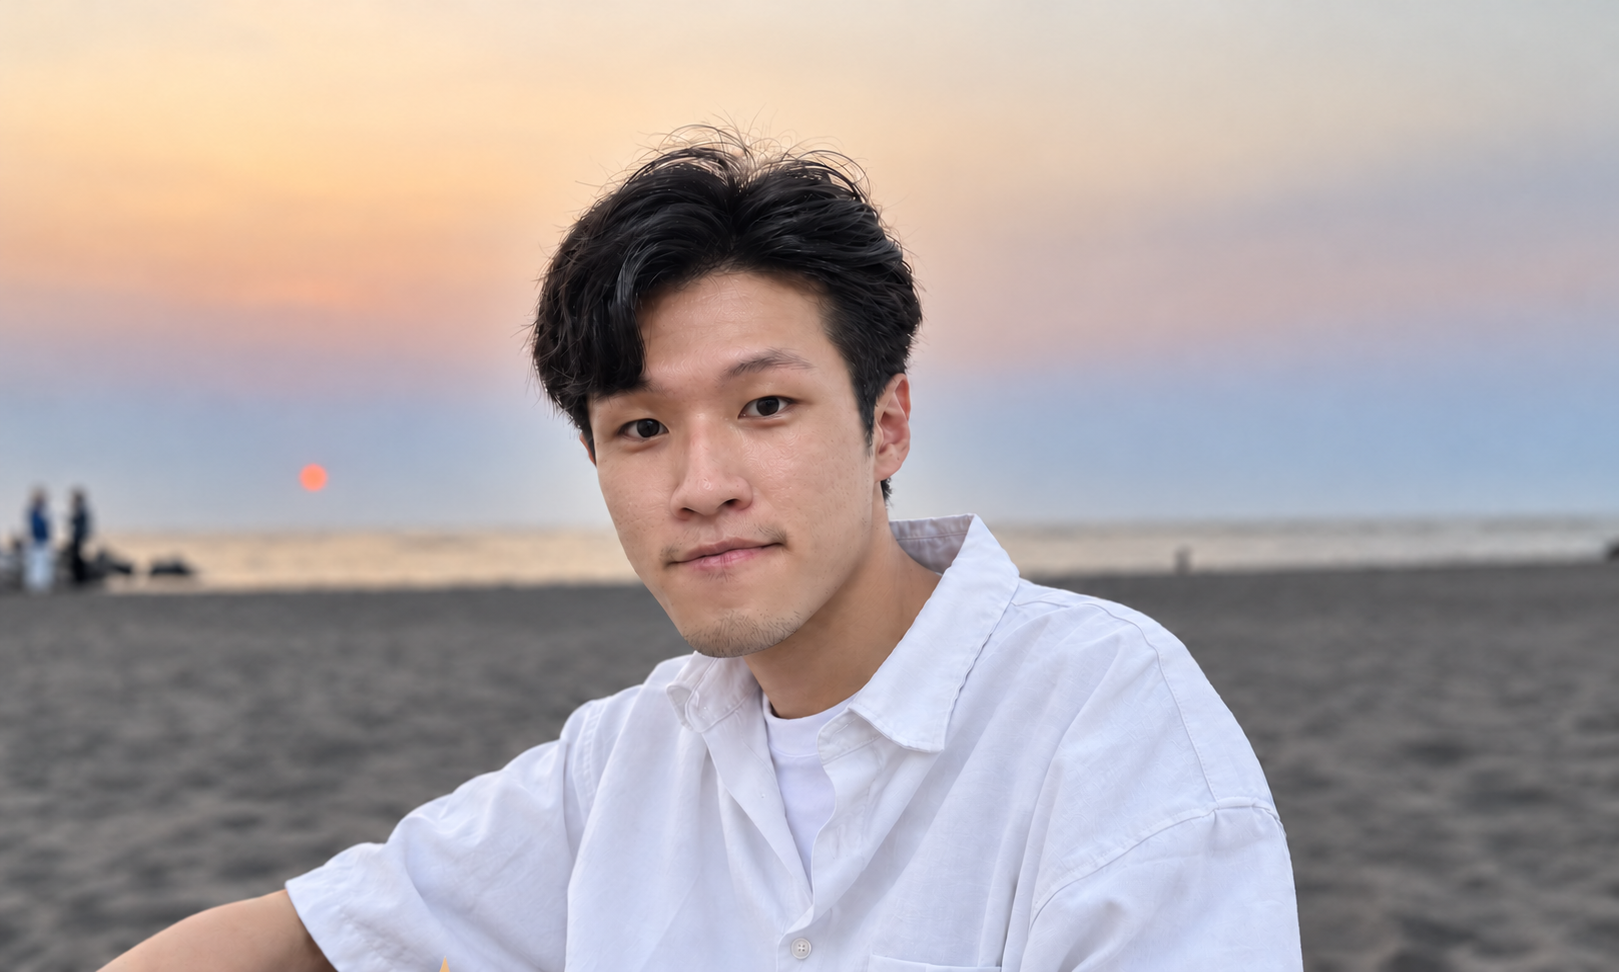
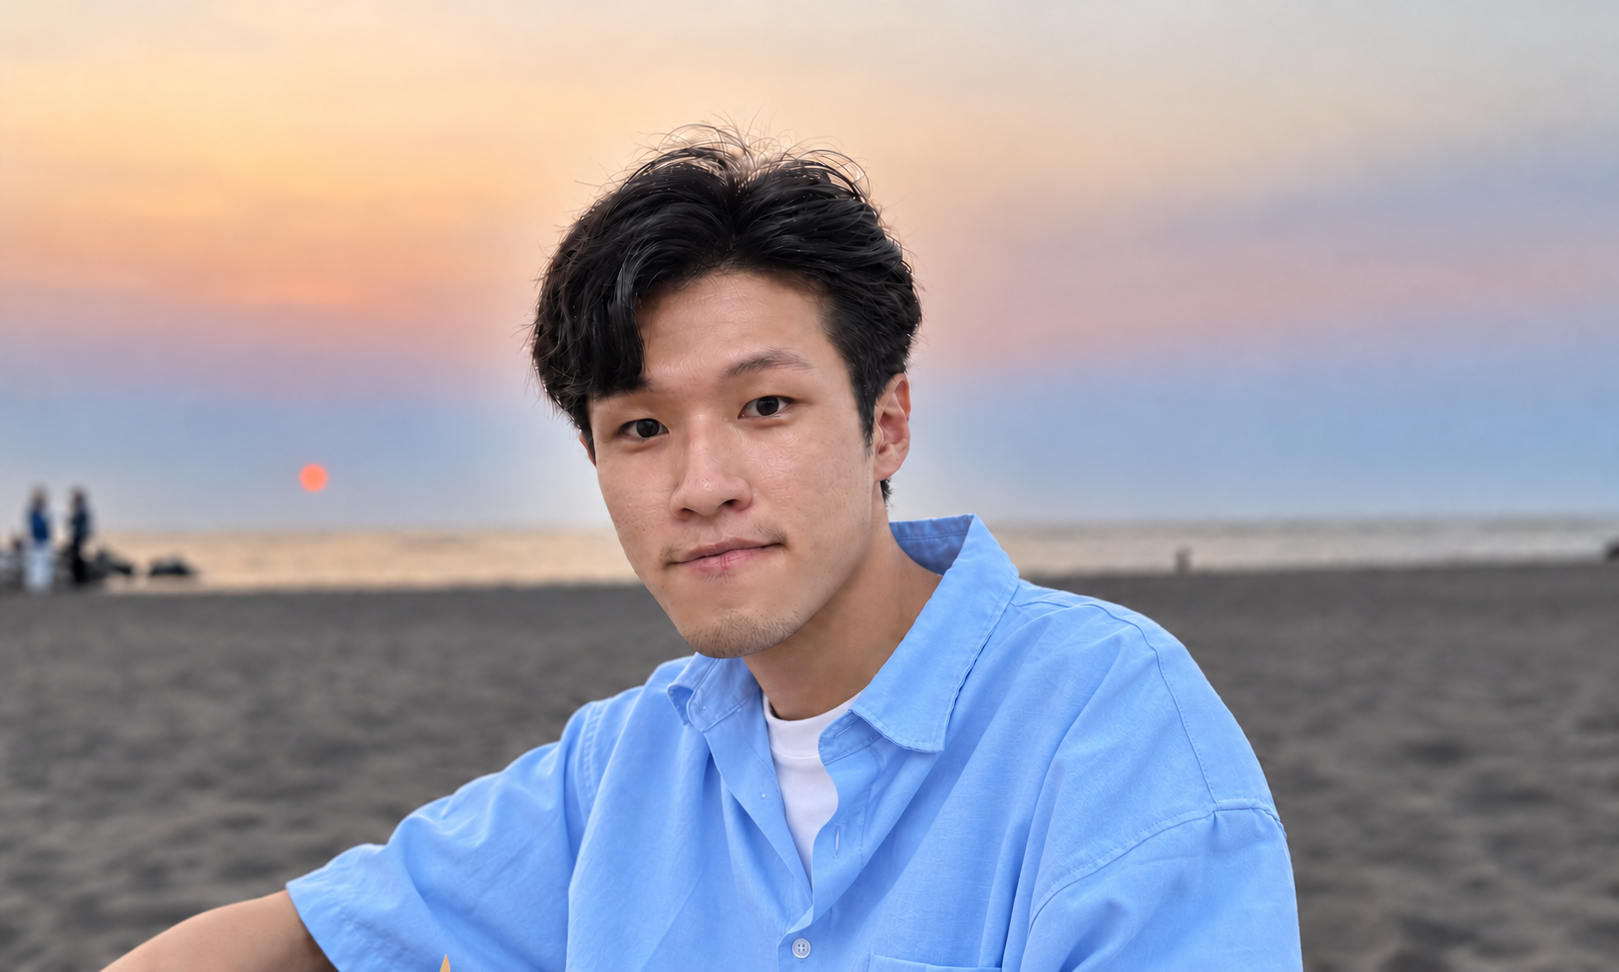
Update headshot with smaller circular framing

Changed region(s): [[0.1544, 0.5247, 0.803, 1.0], [0.3706, 0.1543, 0.525, 0.1852]]

diff --git a/styles.css b/styles.css
@@ -369,13 +369,12 @@ h2 em {
 .hero-visual {
   position: relative;
   justify-self: end;
-  width: min(100%, 380px);
+  width: min(100%, 260px);
   min-width: 0;
 }
 
 .photo-frame {
   position: relative;
-  aspect-ratio: 1;
   padding: 12px;
   background: var(--portrait-frame);
   border-radius: 50%;
@@ -388,10 +387,17 @@ h2 em {
   content: "";
   position: absolute;
   inset: 12px;
-  z-index: 1;
+  z-index: 2;
   border: 1px solid var(--portrait-line);
   border-radius: inherit;
   pointer-events: none;
+}
+
+.photo-window {
+  position: relative;
+  aspect-ratio: 1;
+  overflow: hidden;
+  border-radius: inherit;
 }
 
 .photo-frame img {
@@ -402,7 +408,9 @@ h2 em {
 }
 
 .photo-frame img.headshot {
-  object-position: 52% center;
+  /* A smaller circular frame keeps the subject close to the previous scale. */
+  display: block;
+  object-position: center;
 }
 
 .photo-note {
@@ -1463,7 +1471,7 @@ html:has(.project-dialog[open]) {
   }
 
   h1 { font-size: clamp(3rem, 9vw, 5rem); }
-  .hero-visual { justify-self: center; width: min(72vw, 360px); }
+  .hero-visual { justify-self: center; width: min(72vw, 260px); }
 
   .section-heading,
   .timeline-item {
@@ -1487,7 +1495,7 @@ html:has(.project-dialog[open]) {
   .section-index { font-size: clamp(2rem, 10vw, 2.6rem); }
 
   .hero-actions { align-items: flex-start; flex-direction: column; gap: 18px; }
-  .hero-visual { width: min(78vw, 320px); }
+  .hero-visual { width: min(78vw, 260px); }
   .skill-groups { grid-template-columns: 1fr; gap: 24px; }
   .timeline-body { padding-right: 0; }
   .role-number { display: none; }

diff --git a/index.html b/index.html
@@ -82,7 +82,9 @@
 
         <div class="hero-visual reveal" data-delay="120">
           <div class="photo-frame">
-            <img class="headshot" src="assets/headshot.png" alt="Zhi-Jun (Jason) Hong at the beach" />
+            <div class="photo-window">
+              <img class="headshot" src="assets/headshot.png?v=20261019" alt="Zhi-Jun (Jason) Hong at the beach" />
+            </div>
           </div>
         </div>
       </section>
